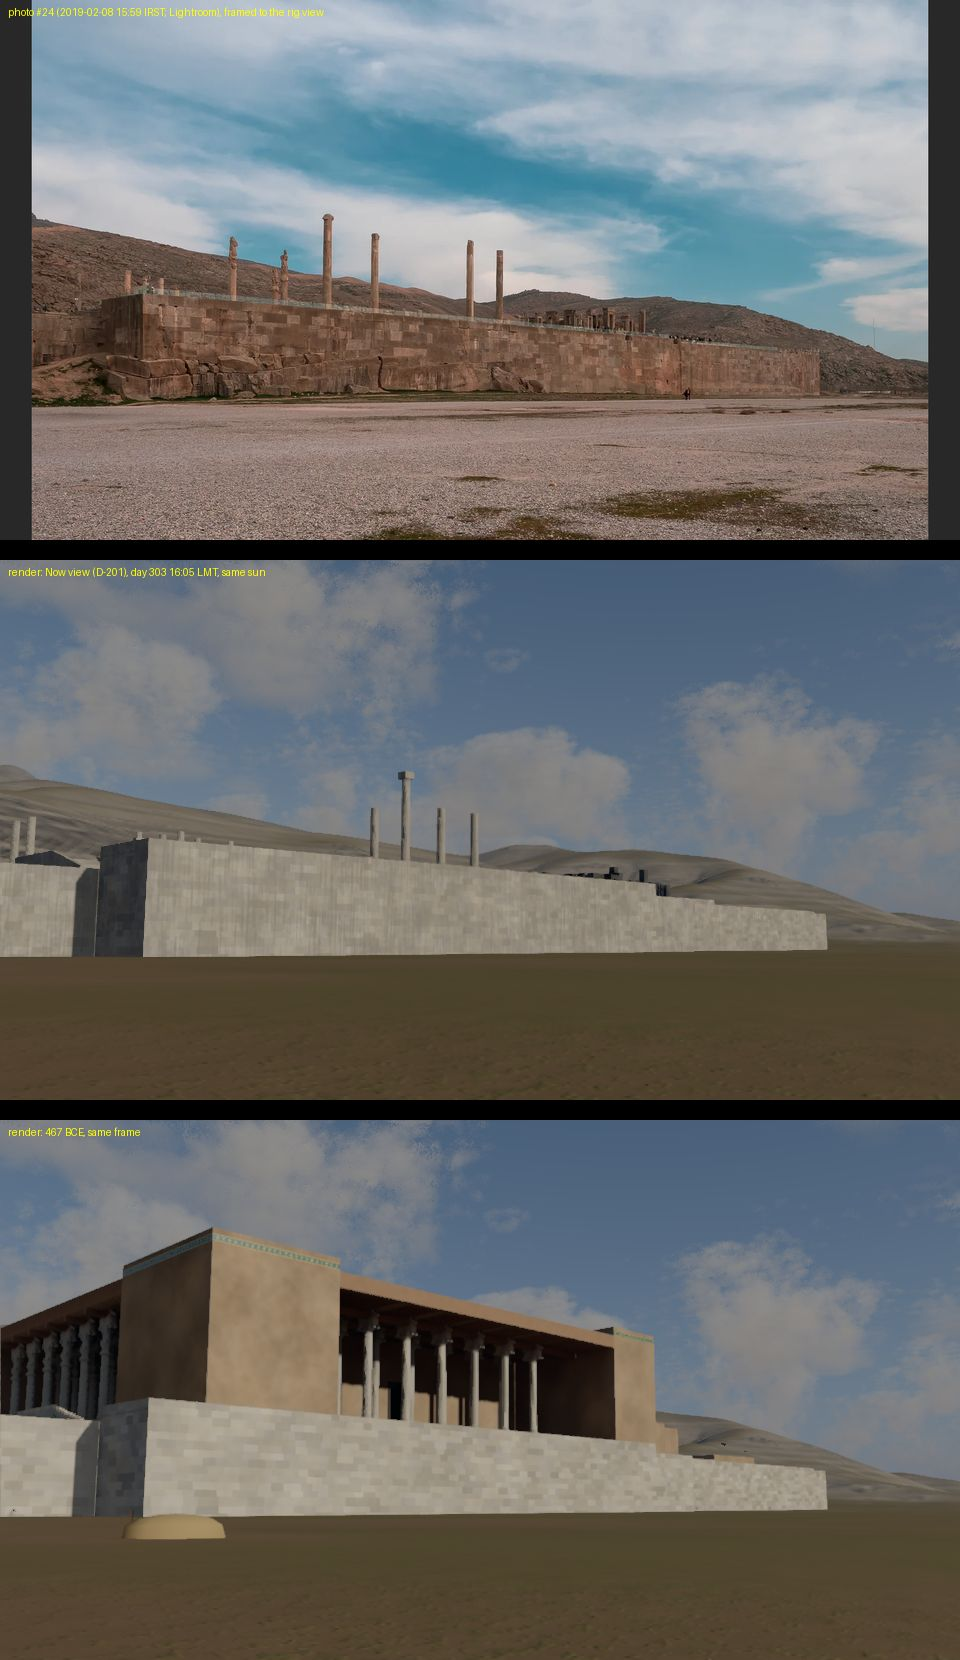
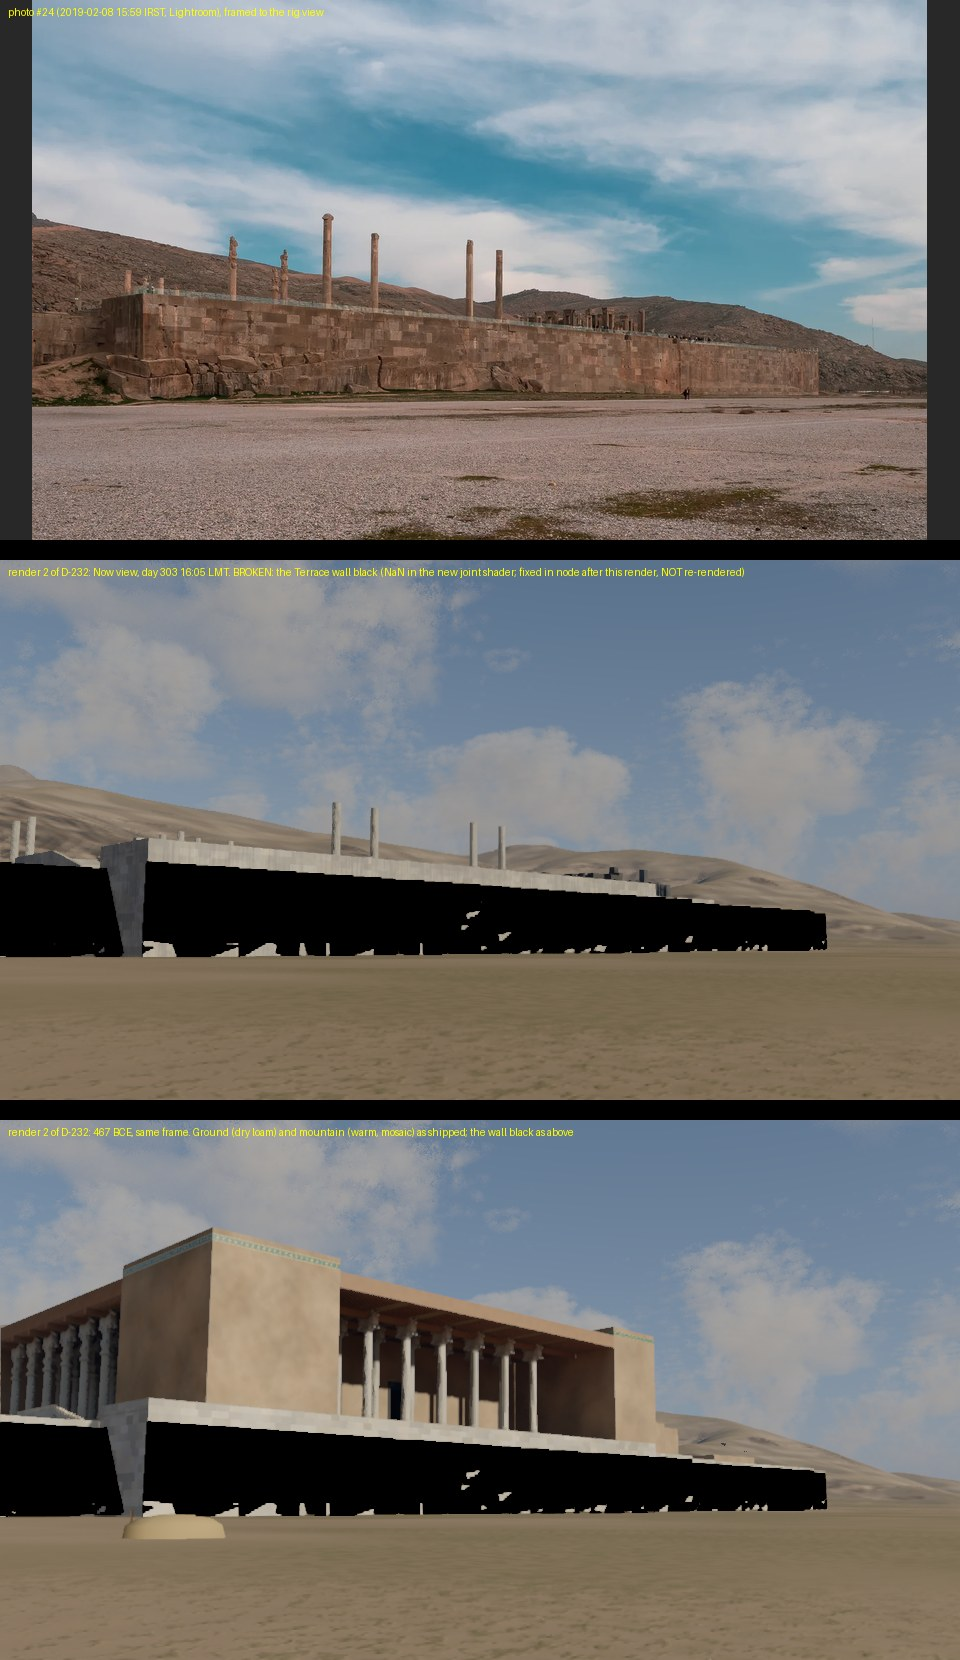
D-232: NaN fix (no normalize() of the own seed's zero vector in the foot's edge direction: render 2 drew the walls black), CPU-mirror finiteness test; records (DECISIONS D-232, Q-600..Q-604, B57, PROGRESS, INDEX), REVIEWS/calib24 with render 2 (wall broken, labelled) and render 1
Claude-Session: https://claude.ai/code/session_018DiFizVEPEL9PHXYDhGwXx

diff --git a/tests/masonry_d232.test.ts b/tests/masonry_d232.test.ts
@@ -2,7 +2,8 @@
 // tools/dev/masonry_photo_d232.py). CPU mirrors of the shader's course tables and head joints (src/render/masonry.ts,
 // materials.ts retainingCells) and of the foot's placement (tools/dev/foot_place_d232.ts).
 import { describe, it, expect } from 'vitest';
-import { MASONRY, courseTables, courseTexels, courseAt, headJoints, TABLE_W } from '../src/render/masonry';
+import { MASONRY, courseTables, courseTexels, courseAt, headJoints, TABLE_W, retainingAt } from '../src/render/masonry';
+import { mxNoise3 } from './lib/mx_noise_cpu';
 import { score } from '../tools/dev/foot_place_d232';
 import SPEC from '../src/data/site_spec.json';
 
@@ -60,6 +61,14 @@ describe('the retaining walls\' foot (D-232)', () => {
     console.log(`foot: W/S share ${r.share.toFixed(3)} (photo ${PHOTO.foot.share}); seen ${r.seen.toFixed(2)}; absent-read ${r.miss.toFixed(2)}`);
     expect(r.seen).toBeGreaterThan(0.9); expect(r.miss).toBeLessThan(0.15); expect(Math.abs(r.share - PHOTO.foot.share)).toBeLessThan(0.06);
     expect(Math.abs(F.height - PHOTO.foot.height)).toBeLessThan(0.3);
+  });
+  it('the foot edge\'s direction is finite and unit everywhere (render 2: a normalize() of the own seed\'s zero vector gave NaN, and the walls rendered black)', () => {
+    const tex = courseTexels(); let bad = 0, n = 0, foot = 0;
+    for (let s = 0; s < 115; s += 0.37) for (let y = -11.7; y < 0; y += 0.23) {
+      const r = retainingAt(s - 59.71, -61.45, y, s - 59.71, -1, 0, mxNoise3, tex); n++; foot += r.inFoot;
+      if (!Number.isFinite(r.eDir[0]) || !Number.isFinite(r.eDir[1]) || Math.abs(Math.hypot(r.eDir[0], r.eDir[1]) - 1) > 1e-6 || !Number.isFinite(r.dJoint)) bad++;
+    }
+    expect(bad).toBe(0); expect(foot / n).toBeGreaterThan(0.1); // (face A: the foot along ~57 of its 115 m, ~5 of its 12 m)
   });
   it('SITE_SPEC row: tier C, sourced to the photographs', () => {
     const row = (SPEC as any).terrace.r_masonry; expect(row.tier).toBe('C'); expect(row.src).toMatch(/REF-PHOTO-24/); expect(row.src).toMatch(/REF-PHOTO-33/);

diff --git a/src/render/masonry.ts b/src/render/masonry.ts
@@ -130,13 +130,16 @@ export function retainingAt(t: number, x: number, y: number, z: number, nx: numb
   let best = 1e9, s1 = [0, 0], c1 = [0, 0];
   for (let i = -1; i <= 1; i++) for (let j = -1; j <= 1; j++) { const cc = [qc[0] + i, qc[1] + j], s = seedOf(cc[0], cc[1]), d2 = (q[0] - s[0]) ** 2 + (q[1] - s[1]) ** 2; if (d2 <= best) { best = d2; s1 = s; c1 = cc; } }
   const inFoot = s1[1] * F.row <= footTop ? 1 : 0;
-  let edge = 1e3;
+  // (as the shader: every neighbour evaluated, the own seed's weight zero; mix(a, b, 0) = a + (b - a) × 0 is NaN if b is)
+  let edge = 1e3, eDir = [0, 1];
+  const mix = (a: number, b: number, t: number) => a + (b - a) * t;
   for (let i = -1; i <= 1; i++) for (let j = -1; j <= 1; j++) {
-    const s = seedOf(qc[0] + i, qc[1] + j), dd = [s1[0] - s[0], s1[1] - s[1]], ln = Math.hypot(dd[0], dd[1]); if (ln < 1e-4) continue;
-    const ns = [dd[0] / ln, dd[1] / ln], dS = (q[0] - (s1[0] + s[0]) / 2) * ns[0] + (q[1] - (s1[1] + s[1]) / 2) * ns[1];
-    const dM = dS / Math.hypot(ns[0] / F.cell, ns[1] / F.row);
-    if (inFoot || s[1] * F.row <= footTop) edge = Math.min(edge, dM);
+    const s = seedOf(qc[0] + i, qc[1] + j), dd = [s1[0] - s[0], s1[1] - s[1]], ln = Math.hypot(dd[0], dd[1]), other = ln >= 1e-4 ? 1 : 0;
+    const ns = [dd[0] / Math.max(ln, 1e-4), dd[1] / Math.max(ln, 1e-4)], dS = (q[0] - (s1[0] + s[0]) / 2) * ns[0] + (q[1] - (s1[1] + s[1]) / 2) * ns[1];
+    const nm = [ns[0] / F.cell, ns[1] / F.row], nl = Math.hypot(nm[0], nm[1]), dM = dS / Math.max(nl, 1e-6);
+    const counts = (inFoot || s[1] * F.row <= footTop ? 1 : 0) * other, dE = mix(1e3, dM, counts), m = (edge >= dE ? 1 : 0) * other;
+    edge = Math.min(edge, dE); eDir = [mix(eDir[0], nm[0] / Math.max(nl, 1e-6), m), mix(eDir[1], nm[1] / Math.max(nl, 1e-6), m)];
   }
   const dJoint = inFoot ? edge : Math.min(dBedC, dHead, edge);
-  return { key: inFoot ? `f${c1[0]},${c1[1]}` : `${cU},${blk}`, dJoint, inFoot };
+  return { key: inFoot ? `f${c1[0]},${c1[1]}` : `${cU},${blk}`, dJoint, inFoot, eDir };
 }

diff --git a/src/render/materials.ts b/src/render/materials.ts
@@ -442,8 +442,10 @@ function retainingCells(t: any, p: any, nx: any, nz: any) {
     const ns = dd.div(ln.max(1e-4)), dS = dot(q.sub(s1.add(s).mul(0.5)), ns); // ≥ 0 inside the own cell (cell units)
     const nm = vec2(ns.x.div(F.cell), ns.y.div(F.row)), dM = dS.div(nm.length().max(1e-6)); // metres to the edge line
     const counts = max(inFoot, step(s.y.mul(F.row), footTop)).mul(other); // an edge of the foot's stones
-    const dE = mix(float(1e3), dM, counts), m = step(dE, edge);
-    edge = min(edge, dE); eDir = mix(eDir, nm.normalize(), m);
+    // (no normalize(): the own seed's nm is zero, and 0/0 is NaN, which mix() keeps even at weight 0: render 2 of D-232 drew
+    // the walls black where this direction entered the arris tilt)
+    const dE = mix(float(1e3), dM, counts), m = step(dE, edge).mul(other);
+    edge = min(edge, dE); eDir = mix(eDir, nm.div(nm.length().max(1e-6)), m);
   }
   // in the foot: the cell edges alone; above it, the courses and the foot's top edge, whichever is nearer
   const polyB = max(inFoot, step(edge, dBedC)); // 1: the nearest "bed" is a cell edge

diff --git a/DECISIONS.md b/DECISIONS.md
@@ -5584,3 +5584,69 @@ moment-*-webgpu.png in the worktree, not committed).**
   look (the Now view), not the target; the brief for the reviewer says so (handoff/review_briefs.md). The gate is unchanged.
 - **Consequence:** D-230's block tone (13 %, 1σ) stands; the on-screen flatness left after AgX's shallow local slope at the
   stone's level (0.42, vs ≥ 1 for a camera curve) is logged in B40 as a tone-mapping question, not a material one.
+
+## D-232 The calib-24 side-by-side's three faults: the Terrace retaining walls' joint layout measured on photos #24 and #33, Kuh-e Rahmat warm and textured at 0.5-2 km, the plain's loam dry and pale (session 8 workstream; REVIEWS/calib24.md)
+- **Read first: what is still broken, weak or unverified.**
+  - **The new wall layout has never been seen in a correct render.** Render 1 drew the whole Terrace wall in one flat tone (the
+    foot's Voronoi used toVar/assign outside a Fn(): TSL dropped the assignments, the seed stayed (0, 0), every point read as
+    one foot cell). Render 2 drew the walls **black** (a normalize() of the own seed's zero vector: NaN, which mix() keeps even
+    at weight 0, entered the arris tilt). Both are fixed in node (tests/masonry_d232.test.ts: a WGSL build that fails on a
+    dropped assign, and a CPU mirror that checks the edge direction finite over the whole face), **NOT re-rendered** (the two
+    renders allowed were spent). The lead must render calib-24, calib-24-now (and a Terrace view such as stair-climb-pm)
+    before this is claimed. REVIEWS/calib24/side_by_side.jpg is render 2, its wall labelled as broken.
+  - The layout's distributions come from ONE photograph (#24; 47 courses, 57 blocks, 203 m of W wall), the far faces read at
+    0.15-0.2 m per pixel (their thin courses may be false beds), no published figure reached (Schmidt, Tilia: B6; Q-602). The
+    Grand Stair recess pattern is judged by eye on #33, not measured. The foot's stepped-back plinth is not modelled (Q-600);
+    whether the foot showed above the 467 ground is open (Q-601).
+  - **Kuh-e Rahmat's texture at 0.4-2.5 km is still below the photo's**: 12 px windows Ystd/Y 0.154 → 0.172 (calib-24-now) and
+    0.136 → 0.127 (calib-24's strip right of the Apadana) against #24's 0.29 (graded: Lightroom clarity, a camera curve steeper
+    than AgX's). Three approaches tried (riser/bench and weathering contrast; a 2-octave mosaic on rock and scree; a 3-octave,
+    sharper mosaic on all the hill ground): BLOCKERS B57. In rahmat-west-pm the face went 0.087 → 0.113 (12 px) and reads
+    patchy and banded; whether the mosaic reads as rock or as camouflage is for the reviewer.
+  - The mountain's luminance against the sky is unchanged in kind (calib-24-now 0.68 → 0.71; photo 0.27, its horizon sky bright
+    thin cloud: B55); only hue and contrast were changed, the luminances of the hill covers kept within 10 %.
+  - The ground change is global: the loam (and roads, canal banks, the probe bake's plain, the sky's ground bounce GROUND_RHO)
+    is brighter everywhere, in every view; only calib-24/-now and rahmat-west-pm were rendered. The sky's ground bounce rose
+    ~35 %: shaded faces lighter (calib-24 sun : shade 6.97 → 5.79, Now 8.66 → 7.87; the photo's 3.86). Other moments not
+    re-rendered. The soil's moisture is not seasonal (Q-603).
+- **1. The retaining walls' joints (src/render/masonry.ts, materials.ts retainingCells; SITE_SPEC terrace.r_masonry, C).**
+  Photo #24 rectified onto the wall planes with D-230's solved camera (tools/dev/masonry_photo_d232.py: face A the salient's W
+  face at 116-195 m, 0.08-0.13 m per pixel; face B the W wall S of it at 213-291 m); joints read by eye on 4-5× crops with a
+  0.5 m grid, checked against an automatic bed profile; overlay shots/masonry_d232_faceA.png.
+  | measure | photo #24 | before (D-218 HAIRLINE) | after (CPU mirror) |
+  |---|---|---|---|
+  | course height p25 / median / p75 (m) | 0.90 / 1.10 / 1.35 (n 47, 0.45-1.65) | 0.93 / 1.05 / 1.18 (0.8-1.3) | 0.90 / 1.12 / 1.40 |
+  | courses < 0.75 m / ≥ 1.5 m | 21 % / 15 % | 0 / 0 | 19 % / 20 % |
+  | block length p25 / median / p75 (m) | 2.0 / 2.2 / 3.5 (n 57, 1.15-7.0) | 1.97 / 2.30 / 2.63 (1.15-3.45) | 1.76 / 2.12 / 3.58 (0.96-7.6) |
+  | blocks ≥ 3.5 m | 26 % | 0 | 27 % |
+  | foot (large irregular blocks, dressed bedrock) along the W/S walls | 38 % of 203 m read, 4.84 m high (median), 15 % of the area | none | 38 % (placed to agree with #24: seen 0.94, absent-read 0.09), 4.9 m |
+  | foot blocks | 3.5-6.8 × 1.4-2.2 m (median 5.8 × 1.8) | – | Voronoi cells 4.6 × 1.8 m, row-jittered |
+  How: courses laid level from a course table per wall section (4 sections by face plane, 1 for the Grand Stair recess; heights
+  from the photographed deciles, 2 cm quantum, a float texture read with textureLoad); blocks as runs of 4 cells of 1.9 m whose
+  inner joints are present with p 0.6 (±0.25 cell); a block of a course ≥ 1.4 m split thin/thick in 25 % (the photo's 0.46 + 1.1 m
+  pieces); the foot a row-jittered Voronoi on W/S faces under a 110 m plan noise (tools/dev/foot_place_d232.ts), its joints
+  4 mm with 2 cm arrises and faces tilted ±1.5° (C); the Grand Stair recess (#33, IR-PERS 'huge irregular blocks', B): split
+  share 0.5 at 0.25-0.75 of the height (jogged beds), inner head joints leaning up to ±12° (C). Joint width, block tone (13 %,
+  D-230/D-231) and the stone inside the block unchanged; the palaces keep HAIRLINE. The Now view's Terrace walls take the same
+  layout (terrace_now). Node preview: shots/masonry_compare_d232.png (tools/dev/masonry_preview_d232.ts + masonry_compare_d232.py).
+- **2. Kuh-e Rahmat (src/world/plain/terrainPlain.ts HILL; terrainMesh groundColour).** Hue: the hills' covers from neutral grey
+  to warm grey-brown (rock 10YR 5/2, dark patches 10YR 3.5/2, scree 10YR 5.75/2, colluvium 10YR 5/3; R/G 1.09 → 1.31, B/G 0.87 →
+  0.69 in albedo; the satellite view #13 through haze R/G 1.22, B/G 0.73), luminances kept within 10 % (tests/ground_d232).
+  Contrast: riser 1.12 → 1.22, bench 0.88 → 0.84, weathered-patch share 0.5 → 0.75, and a rock-soil-scrub mosaic ±28 % in 6/16/40 m
+  patches, each octave band-limited by the pixel footprint (no aliasing), mean-preserving (all C). Measured (tools/dev/
+  calib24_mountain.py; the photo resampled to the rig's angular scale): calib-24-now mountain R/G 1.15 → 1.22 (display), 12 px
+  Ystd/Y 0.154 → 0.172; rahmat-west-pm face (tools/dev/rahmat_face_d232.py) R/G 1.01 → 1.10, B/G 0.99 → 0.93, 12 px 0.087 → 0.113.
+- **3. The ground (terrainMesh groundColour, SURFACES.earth, rivers.ts, water.ts, settlement road and bank; skySystem GROUND_RHO).**
+  The loam was 10YR 4/2 (Y 0.117), a moist soil's colour. Evidence for the dry plain: #13 mountain / open plain 1.32, #8 unpaved
+  foot vs mountain 0.75-1.0 (tools/dev/ground_photo_d232.py); the 1930s aerial #27 shows the unimproved plain pale; the dry
+  colour of the calcareous loams 10YR 5.5/3-6/3 and textbook dry-soil albedo 0.2-0.35 (both RECOLLECTION, C). Now 10YR 5.5/3
+  (Y 0.240, R/G 1.45, B/G 0.58); mountain / plain 1.87 → 0.91 (inside 0.75-1.32). Roads (compacted dust) 10YR 6/3, canal banks
+  10YR 5/3. The photo's 2.1 ground/wall is the modern gravel lot and was not the target. calib-24: ground / sunlit wall 0.19 →
+  0.36 (render 1; render 2's wall is black), sky / ground 3.02 → 1.65 (photo 1.45). The probes re-baked (WORKERS=2, 365 s;
+  tests/probes green).
+- **Checks:** `npx tsc --noEmit -p .` clean; `npm run lint:all` OK; vitest `--maxWorkers=1`: masonry_d232 (new, 8), ground_d232
+  (new, 2), shader_build, hills_d223, plain_d223, weather_visible, detail, landscape, polychromy, reflections_s7,
+  relief_shadow, roofs, stone_photo_d230, surfaces (3), plain, plain_look, settlement, probes, language, airlight, cloudcover,
+  cloudlight, court_fill, fire_light, now_view, sky (3), smoke_light, twilight, weather. Renders (2, shared queue, high, WebGPU):
+  calib-24 + calib-24-now + rahmat-west-pm, twice (shots/r1, shots/r2, not committed).
+- Records: Q-600 … Q-604; B57.

diff --git a/BLOCKERS.md b/BLOCKERS.md
@@ -24,3 +24,4 @@
 | B44 | **The Belt of Venus is not pink** (rubric s7 pass 2 item 12; D-224) | Four approaches measured at haze 0.25, sun −2° / −3°, antisolar vertical (reddest R/B; D-116: 0.61 / 0.43): aerosol backscatter to a 50 sr lidar ratio (no change: the low aerosol is in the Earth's shadow); a stratospheric layer τ 0.005–0.02 (0.65 / 0.48 at 0.005, 0.76 / 0.59 at 0.02 with backscatter); a deeper tropospheric layer (bluer, 0.37 at −3°); a converged multiple-scattering table (0.86 / 0.60, pink-lilac at −1° … −2°, but B43) | shipped: backscatter + τ_strat 0.005 on D-116's table (the arch at 11–21° over a blue-grey shadow, lilac, R/B 0.48 at −3°) | B43 resolved; Lee's measured arch chromaticity to set the target (Q-531, Q-161) |
 | B49 | **The town at dusk shows no points of fire from the §1.1 cameras** (brief §1.1 "smoke rising from the town at dusk as lamps are lit"; D-223 "at dusk it needs lamp and hearth glow"; session 8, D-227) | Measured with the sim's fires and the town as built (tests/town_glow.test.ts; a 0.5 m height raster of every wall, roof and oven top): at day 20 19:00, 886 town fires lit (the most in the dusk of any calm dry spring evening near day 14); in the Terrace view's frame 420 at 0.45–1.7 km, in Kuh-e Rahmat's 594 at 0.8–2.0 km; **flames in line of sight 0 and 0** (from 300 m straight above a quarter, 47 of 103: the method sees them when they are there to see). From 1–4° below the horizontal a 2.5–3 m court wall hides 48–170 m of ground behind it, and the plan puts each hearth in a court corner. Approaches: (1) the fires' light on their own courts' walls as the camera sees it (Σ ρ/π·dω·cos θ over the lit patches in sight): 0.03 and 0.30 of one fire's candela summed over the whole town, spread over 9 and 67 fires: nothing to draw; (2) the fire light scattered by the smoke layer from below (FIRE_ESCAPE_SR 1.0 sr measured): 0.15 % of the layer's skylight at −5.7°, 3.9 % at −8.7°; built (landSmoke.ts), it matters only after dark; (3) re-timed to the most fires lit in the dusk (day 20 19:00, 886 lit, against 43 on day 14 at 18:48; rendered: no fire point, the smoke's contrast +2.2 luma against +10.3, so not adopted) and a higher vantage on Kuh-e Rahmat (100 m E: 0.15 fire-candela; 200 m E the ridge hides the town). Lamps in houses (Q-560) would show only through doors into the hidden courts. | The moments keep day 14 18:48, where the smoke layer reads (τ Terrace→S quarters 0.343; 0.113 at the day-20 hour); no fire points; nothing staged | evidence for fires or lamps where a height sees them (roofs in the warm months, open work yards, Q-561); or a moment from a higher point (the Terrace's own roofs, Kuh-e Rahmat's upper slope if its terrain allows) |
 | B55 | **§8.1 calibration: photometry not matched to photograph #24** (session 8, D-230; REVIEWS/calib24.md) | The geometry calibrates (camera solved on the Terrace outline and the DEM skyline: corners rms 8.9 px, skyline median 8 px), the light does not: sunlit/shaded wall 3.9 (photo) vs 7.0 (467) / 8.7 (Now); sky near horizon/sunlit wall 3.1 vs 0.56 / 0.73; ground/sunlit wall 2.1 vs 0.19 / 0.21; mountain/sky 0.42 vs 1.39 / 1.04. The photo is a Lightroom JPEG with an orange-and-teal grade, lifted shadows and an unknown curve; its horizon sky holds bright thin cloud (the render: cumulus); its ground is the modern gravel lot; its wall is weathered dark red-brown. A clear-sky estimate of sun : shade on these faces (~8–10) sides with the render | the renderer's lighting unchanged; the ratios recorded; the rig views calib-24 and calib-24-now (moments.spec) reproduce the frame at the photo's sun (day 303 16:05 LMT) | the camera's raw file (ORF) of this frame or any dated raw/DNG photograph of the site with a grey card or a clear sky; NEEDS #13 |
+| B57 | **Kuh-e Rahmat's texture at 0.4-2.5 km below photograph #24's** (session 8, D-232) | calib-24-now: Ystd/Y in 12 px windows 0.154 (before) → 0.163 (render 1) → 0.172 (render 2); photo 0.29 (tools/dev/calib24_mountain.py, the photo resampled to the rig's scale). Three approaches: (1) riser/bench albedo 1.22/0.84 and the rock's weathered patches; (2) a 6/16 m rock-scree mosaic ±28 %; (3) three octaves to 40 m, sharper, on all the hill ground. The rest of the gap: sub-DEM relief (outcrops, ledges) casts no shadow at 16:00's low sun (a bump, not geometry), the 30 m DEM, AgX's shallow local slope against a camera curve with Lightroom clarity | shipped (3) | a finer DEM or a displacement/ledge geometry near the Terrace; a raw photograph of the massif (NEEDS #13) |

diff --git a/REVIEWS/calib24.md b/REVIEWS/calib24.md
@@ -56,3 +56,17 @@ and 1.49, sun altitude 19.4°.
    8.06, −17.86, −26.5; tops within 0.05–0.52° of the photo, the outer row 0.63–0.93° off; `tools/dev/calib24_columns.ts`); the
    recalled (−50.95, −0.58) and the fragment at (−50.95, 8.06) have nothing on their rays. Moved in now_view.json (the count of
    13 kept). NOT re-rendered after the change.
+
+## D-232 (session 8 workstream): the three faults of the side-by-side
+**Read first: the Terrace wall is broken in both D-232 renders and its fix is NOT rendered.** `side_by_side.jpg` is now render 2
+of D-232: its walls are **black** (NaN from the new joint shader, fixed in node afterwards). `side_by_side_d232_render1.jpg` is
+render 1: the 467 wall one flat tone (the foot's TSL assignments dropped). The ground and the mountain in both are as shipped.
+| image | sky / ground | ground / sunlit wall | mountain / sky | mountain R/G, B/G (display) | mountain Ystd/Y, 12 px windows |
+|---|---|---|---|---|---|
+| photo #24 | 1.45 | 2.12 (modern gravel: not the target) | 0.27 | 1.56, 0.75 (graded) | 0.29 |
+| before, Now / 467 | 3.43 / 3.02 | 0.21 / 0.19 | 0.68 / 0.60 | 1.15, 0.79 / 1.15, 0.77 | 0.154 / 0.136 |
+| D-232 render 1, Now / 467 | 2.06 / 1.84 | 0.36 / 0.36 | 0.70 / 0.65 | 1.25, 0.74 / 1.29, 0.71 | 0.163 / 0.118 |
+| D-232 render 2, Now / 467 | 1.87 / 1.65 | – (wall black) | 0.71 / 0.70 | 1.22, 0.77 / 1.24, 0.76 | 0.172 / 0.127 |
+Mountain columns from tools/dev/calib24_mountain.py (DEM hits 0.4-2.5 km, clear of the skyline and the wall; 467 in columns
+690-960 right of the Apadana); the rest from tools/dev/calib24_compare.py. The wall layout itself: shots/masonry_compare_d232.png
+(node preview against the rectified photo) and DECISIONS D-232.

diff --git a/PROGRESS.md b/PROGRESS.md
@@ -1,6 +1,14 @@
 # PROGRESS (problems first)
 
 ## Broken / placeholder / weak (read first)
+- **D-232 (session 8 workstream): the Terrace retaining walls' new joint layout is NOT seen in a correct render** — render 1
+  drew the wall one flat tone (TSL assigns dropped), render 2 black (NaN); both fixed in node (tests/masonry_d232.test.ts), not
+  re-rendered: render calib-24, calib-24-now and a Terrace view before claiming it. Layout measured on photo #24 (course heights
+  0.45-1.65 m, median 1.10; blocks 1.15-7 m, median 2.2, 26 % ≥ 3.5 m; a polygonal foot of big blocks/bedrock along 38 % of the
+  W wall, 4.9 m high) and #33 (Grand Stair recess, by eye); C, one photograph (Q-600…Q-602). Kuh-e Rahmat now warm grey-brown
+  with a 6/16/40 m mosaic; its 0.5-2 km texture still below the photo's (0.17 vs 0.29: B57). The plain's loam dry 10YR 5.5/3
+  (Y 0.24, was a moist 10YR 4/2): brighter ground everywhere, the sky's ground bounce up ~35 % (every view; only the calib and
+  rahmat-west-pm views rendered); probes re-baked. REVIEWS/calib24.md, DECISIONS D-232.
 - **§13.11 shadow review round 10 PASSED (session 8), both reviewers** (REVIEWS/shadow_phase5_r10.md, _b.md; sample pick 181
   regenerated on the merged tree after the soak passed all 8 gates): A 7 × 5 and 13 × 4, B 9 × 5 and 11 × 4; no score below 4
   (rounds 1–9 failed). Both found S1 (a walk between two Terrace places played as a trip down the stair and back: 49 % of

diff --git a/references/INDEX.md b/references/INDEX.md
@@ -114,3 +114,6 @@ calibration scene (processed JPEG: colour ratios only, with care).
 (B40, tools/dev/stone_photo_d230.py); (7) #24 drives the calibration views calib-24 / calib-24-now (camera solved on the
 Terrace and the DEM skyline; REVIEWS/calib24.md; its photometry not usable: B55). #24 also re-placed the Now view's W portico
 columns.
+**D-232:** the Terrace wall's masonry measured on #24 rectified (course heights, block lengths, the polygonal foot: SITE_SPEC
+terrace.r_masonry) and the Grand Stair recess judged on #33; Kuh-e Rahmat's hue from #13/#8/#21/#24 and the plain's brightness
+against it from #13 and #8 (tools/dev/ground_photo_d232.py). The wall's new layout is not yet seen in a correct render (D-232).
